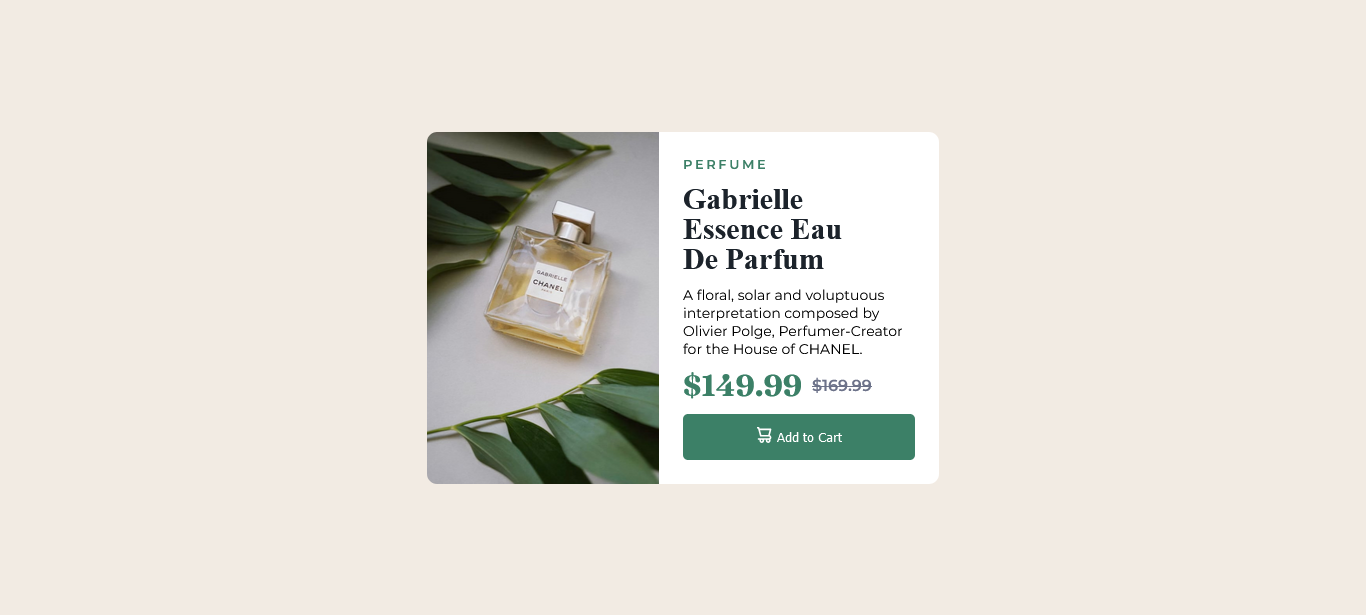
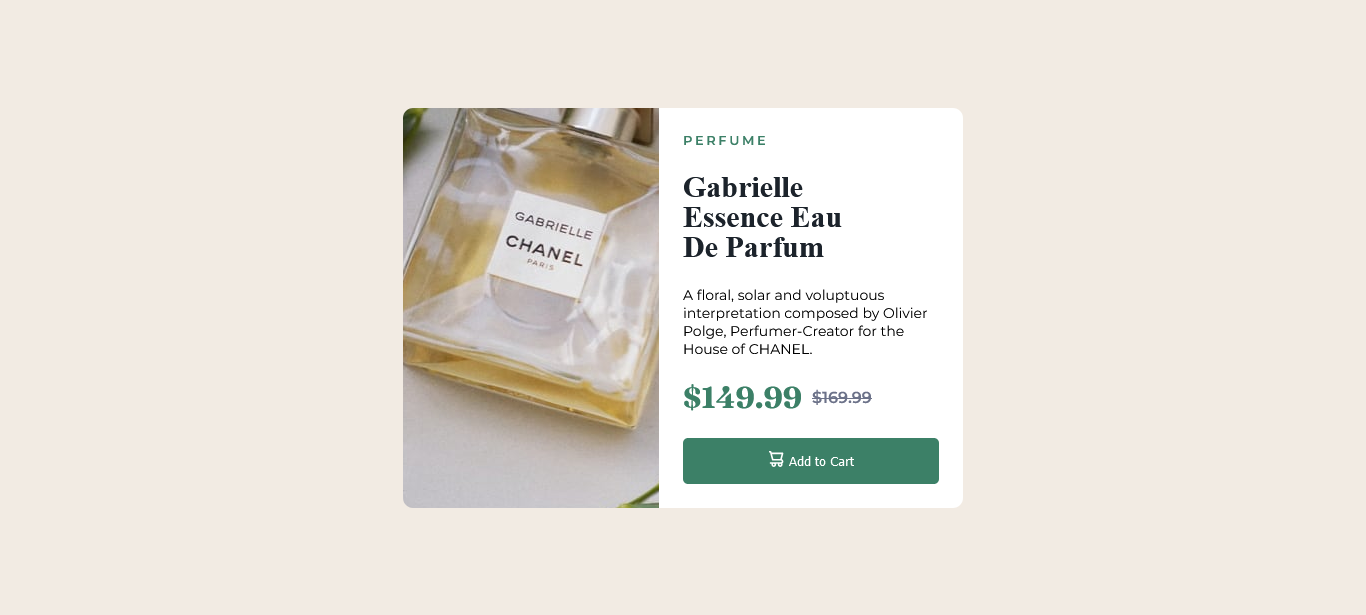
Reto finializado

Changed region(s): [[0.2767, 0.1545, 0.7072, 0.8341]]

diff --git a/styles.css b/styles.css
@@ -139,8 +139,8 @@ main {
 @media (min-width: 768px) {
   .card {
     flex-direction: row;
-    width: 32rem;
-    height: 22rem;
+    width: 35rem;
+    height: 25rem;
   }
   .card-image {
     height: auto;
